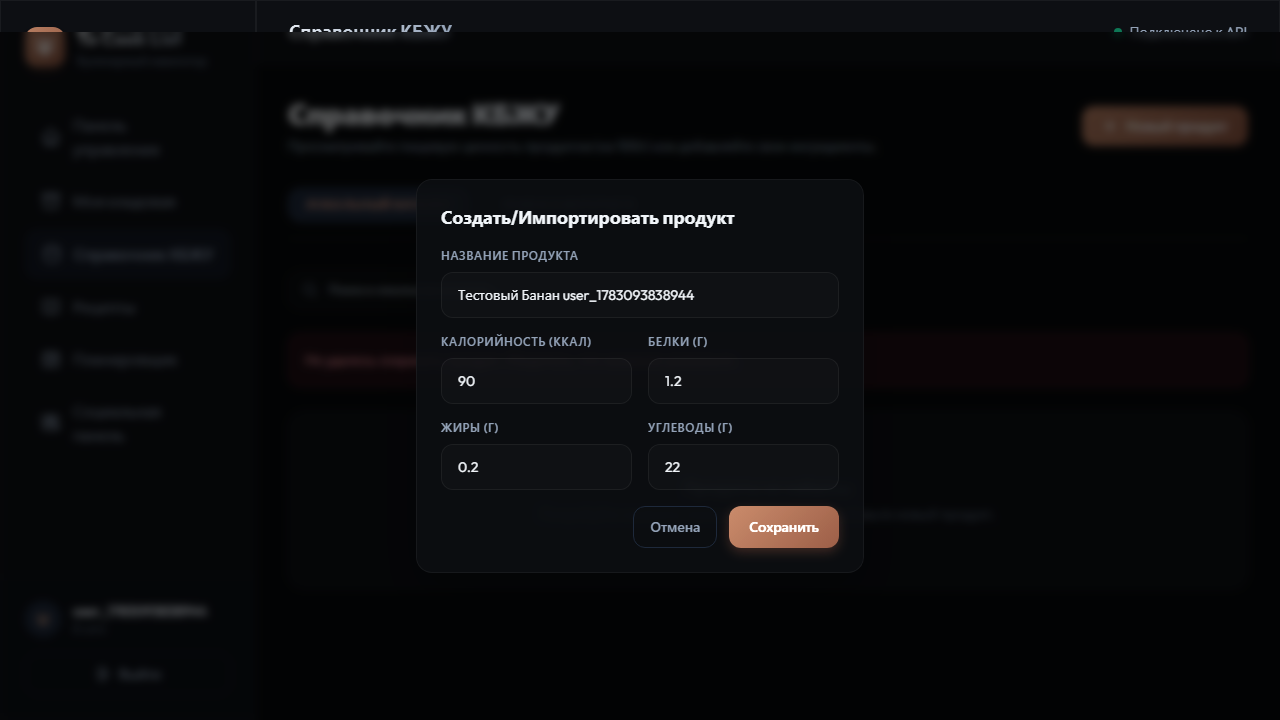
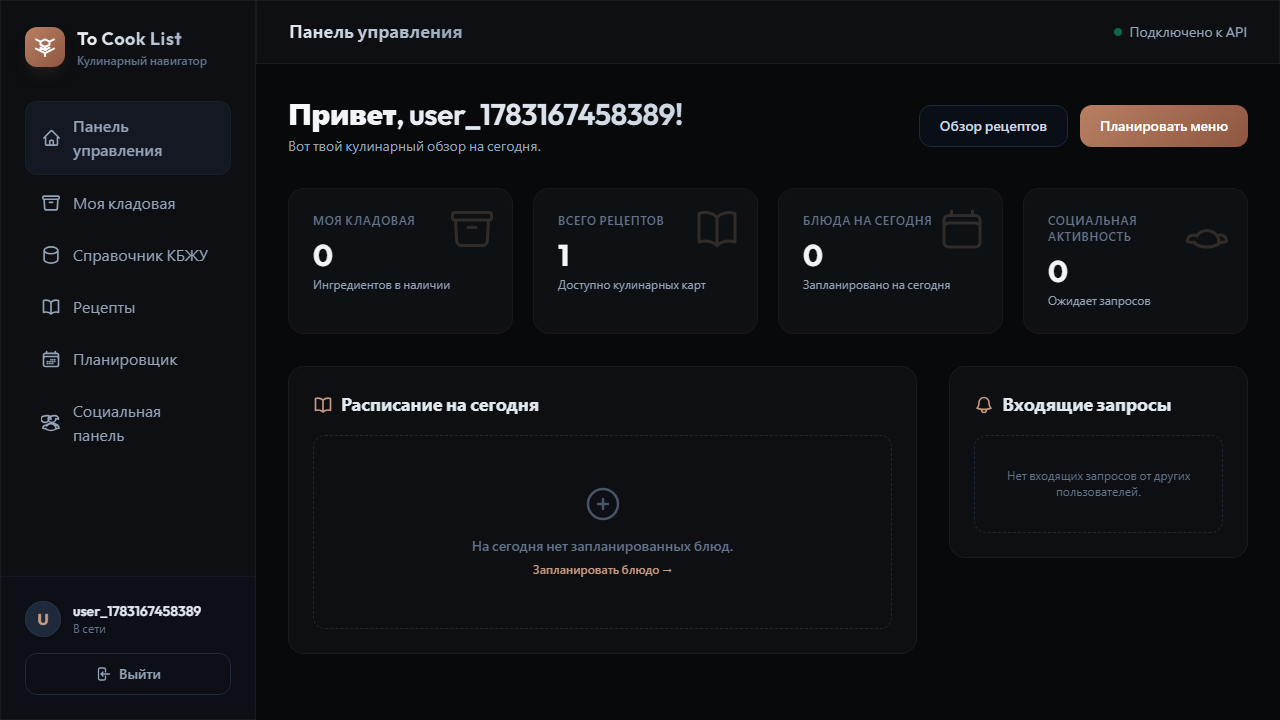
test: fix e2e locator for dashboard welcome header due to responsive classes

diff --git a/frontend/tests/culinary.spec.js b/frontend/tests/culinary.spec.js
@@ -22,7 +22,7 @@ test('Culinary Navigator E2E User Flow', async ({ page }) => {
 
   // 2. Expect to reach dashboard
   await expect(page).toHaveURL(/\/dashboard/);
-  await expect(page.locator('h1.text-3xl')).toContainText('Привет');
+  await expect(page.locator('h1')).toContainText('Привет');
 
   // 3. Create a new product in the catalog
   await page.click('a[href="/products"]');

diff --git a/frontend/test-results/culinary-Culinary-Navigator-E2E-User-Flow-chromium/error-context.md b/frontend/test-results/culinary-Culinary-Navigator-E2E-User-Flow-chromium/error-context.md
@@ -14,14 +14,14 @@
 ```
 Error: expect(locator).toContainText(expected) failed
 
-Locator: locator('table')
-Expected substring: "Тестовый Банан user_1783093838944"
+Locator: locator('h1.text-3xl')
+Expected substring: "Привет"
 Timeout: 5000ms
 Error: element(s) not found
 
 Call log:
   - Expect "toContainText" with timeout 5000ms
-  - waiting for locator('table')
+  - waiting for locator('h1.text-3xl')
 
 ```
 
@@ -56,39 +56,47 @@ Call log:
       - img
       - text: Социальная панель
   - text: U
-  - paragraph: user_1783093838944
+  - paragraph: user_1783167458389
   - paragraph: В сети
   - button "Выйти":
     - img
     - text: Выйти
 - main:
-  - heading "Справочник КБЖУ" [level=1]
+  - heading "Панель управления" [level=1]
   - text: Подключено к API
-  - heading "Справочник КБЖУ" [level=1]
-  - paragraph: Просматривайте пищевую ценность продуктов (на 100г) или добавляйте свои ингредиенты.
-  - button "Новый продукт":
-    - img
-    - text: Новый продукт
-  - button "Локальный каталог"
-  - button "Поиск в Интернете"
+  - heading "Привет, user_1783167458389!" [level=1]
+  - paragraph: Вот твой кулинарный обзор на сегодня.
+  - link "Обзор рецептов":
+    - /url: /recipes
+  - link "Планировать меню":
+    - /url: /menu
   - img
-  - textbox "Поиск в локальном каталоге..."
-  - text: Не удалось сохранить продукт. Убедитесь, что название уникально.
-  - paragraph: Продукты не найдены
-  - paragraph: Попробуйте изменить поисковый запрос или добавьте новый продукт.
-  - heading "Создать/Импортировать продукт" [level=3]
-  - text: Название продукта
-  - 'textbox "например: Авокадо"': Тестовый Банан user_1783093838944
-  - text: Калорийность (ккал)
-  - spinbutton: "90"
-  - text: Белки (г)
-  - spinbutton: "1.2"
-  - text: Жиры (г)
-  - spinbutton: "0.2"
-  - text: Углеводы (г)
-  - spinbutton: "22"
-  - button "Отмена"
-  - button "Сохранить"
+  - paragraph: Моя кладовая
+  - heading "0" [level=3]
+  - paragraph: Ингредиентов в наличии
+  - img
+  - paragraph: Всего рецептов
+  - heading "1" [level=3]
+  - paragraph: Доступно кулинарных карт
+  - img
+  - paragraph: Блюда на сегодня
+  - heading "0" [level=3]
+  - paragraph: Запланировано на сегодня
+  - img
+  - paragraph: Социальная активность
+  - heading "0" [level=3]
+  - paragraph: Ожидает запросов
+  - heading "Расписание на сегодня" [level=2]:
+    - img
+    - text: Расписание на сегодня
+  - img
+  - paragraph: На сегодня нет запланированных блюд.
+  - link "Запланировать блюдо →":
+    - /url: /menu
+  - heading "Входящие запросы" [level=2]:
+    - img
+    - text: Входящие запросы
+  - paragraph: Нет входящих запросов от других пользователей.
 ```
 
 # Test source
@@ -118,7 +126,8 @@ Call log:
   22  | 
   23  |   // 2. Expect to reach dashboard
   24  |   await expect(page).toHaveURL(/\/dashboard/);
-  25  |   await expect(page.locator('h1.text-3xl')).toContainText('Привет');
+> 25  |   await expect(page.locator('h1.text-3xl')).toContainText('Привет');
+      |                                             ^ Error: expect(locator).toContainText(expected) failed
   26  | 
   27  |   // 3. Create a new product in the catalog
   28  |   await page.click('a[href="/products"]');
@@ -131,8 +140,7 @@ Call log:
   35  |   await page.fill('input[placeholder="8"]', '22');
   36  |   await page.click('form button:has-text("Сохранить")');
   37  |   await page.waitForTimeout(1000); // Wait for modal close and list update
-> 38  |   await expect(page.locator('table')).toContainText(productName);
-      |                                       ^ Error: expect(locator).toContainText(expected) failed
+  38  |   await expect(page.locator('table')).toContainText(productName);
   39  | 
   40  |   // Edit the newly created product
   41  |   await page.click(`tr:has-text("${productName}") button:has-text("Редактировать")`);
@@ -220,5 +228,4 @@ Call log:
   123 |   await page.waitForTimeout(1000);
   124 |   await expect(page.locator('.bg-rose-500\\/10')).toContainText('используется в кладовой или в рецептах');
   125 | });
-  126 | 
 ```